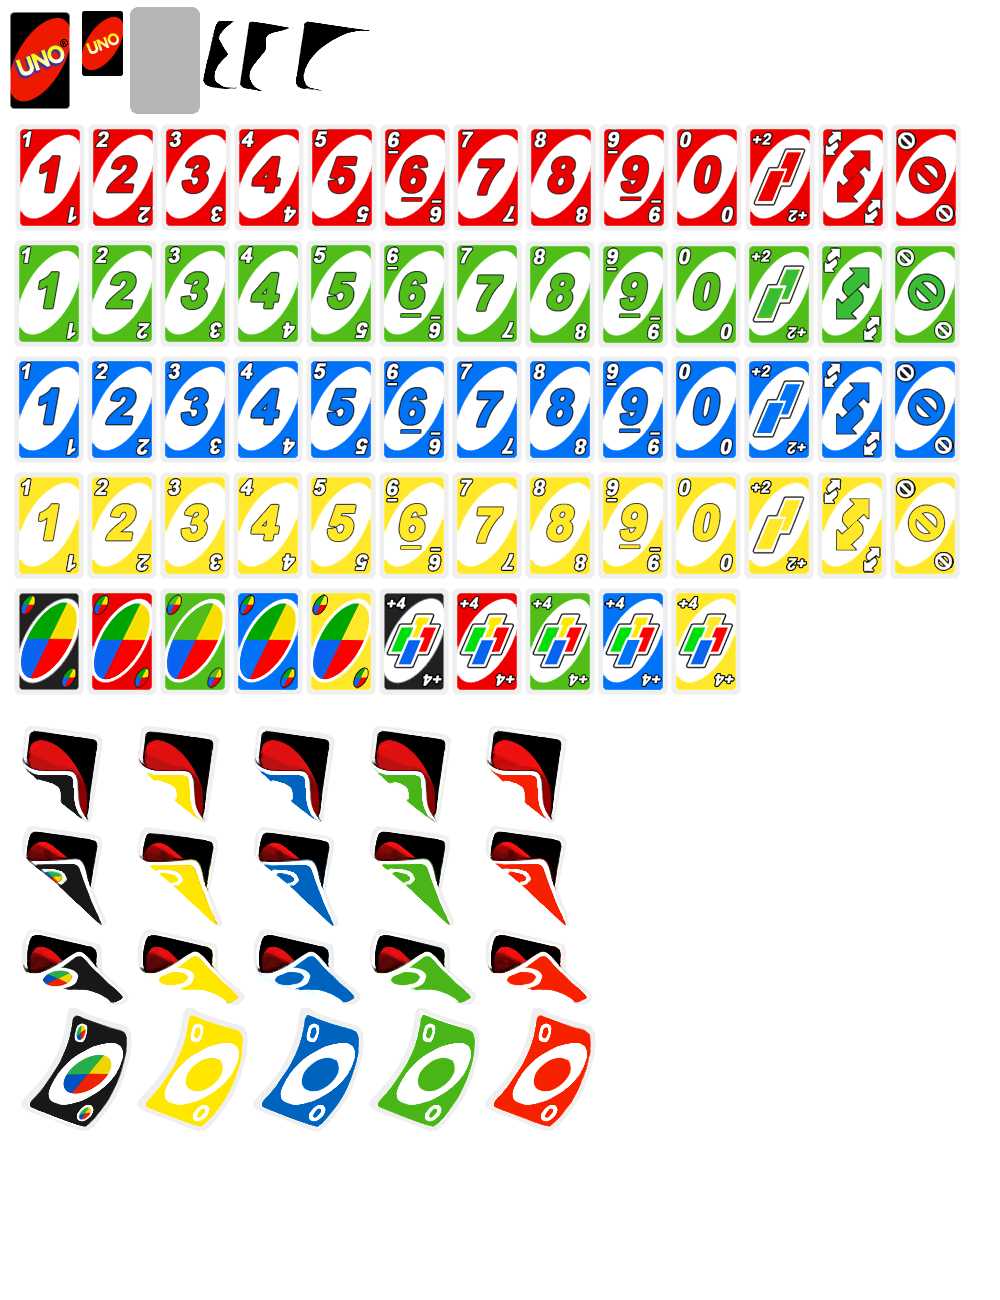
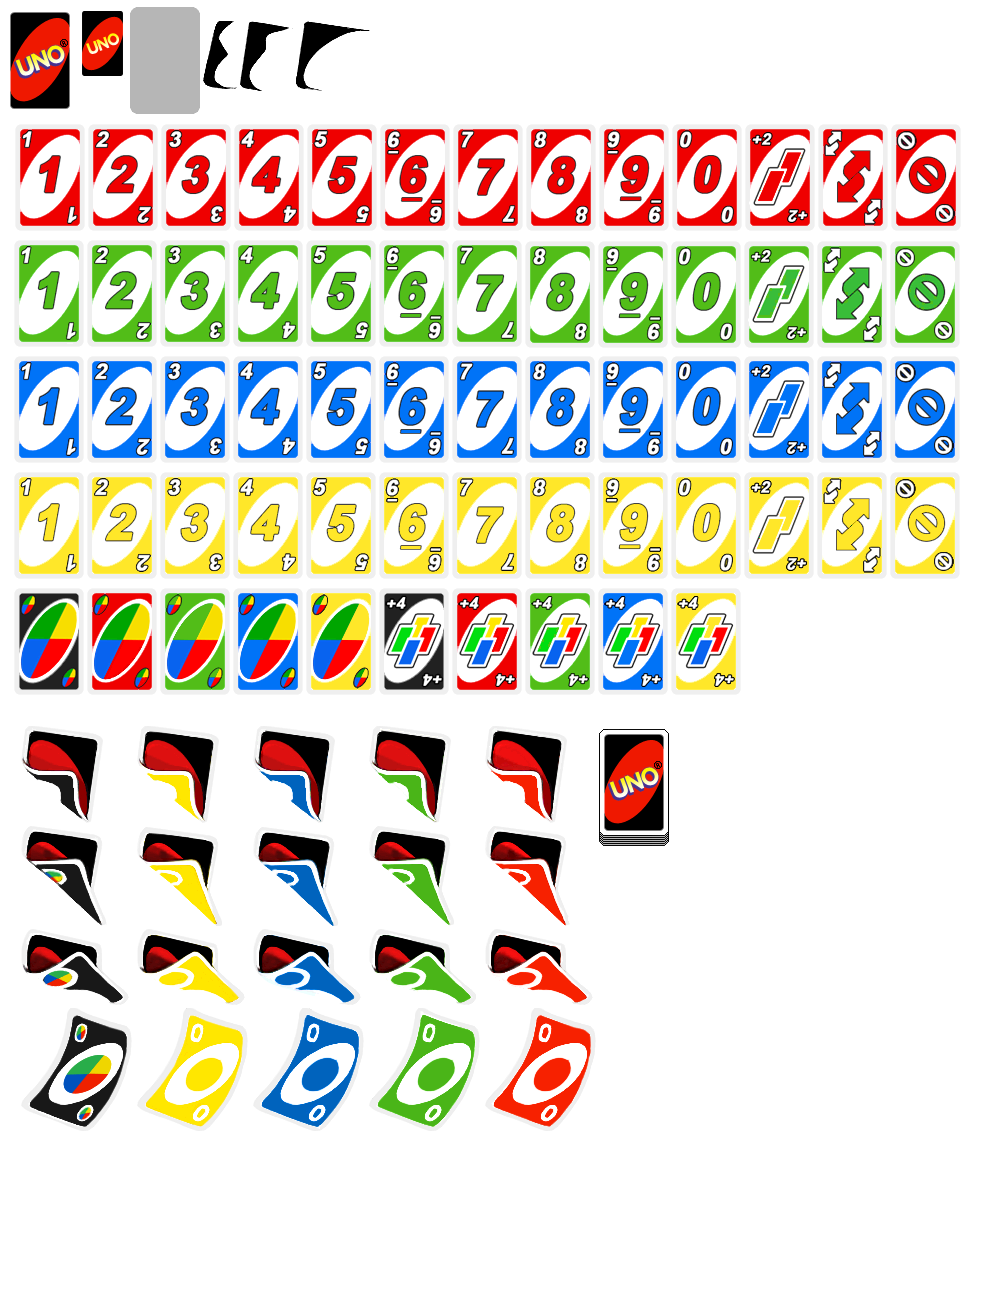
Update

Changed region(s): [[0.589, 0.5538, 0.682, 0.6769]]

diff --git a/UNO/PlayerObject.h b/UNO/PlayerObject.h
@@ -11,25 +11,31 @@ public:
 	typedef std::vector<CObject2D*> player_t;
 	typedef std::vector<CText*> playerName_t;
 	typedef std::vector<CButton*> card_t;
+	typedef std::vector<D2D1_RECT_F> Turn_t;
 
 private:
 	player_t m_player;
 	player_t m_playerImage;
+	player_t m_boss;
+	player_t m_turn;
 	playerName_t m_pName;
 
 	card_t* m_playersCard;
 
+	// 134 44
+
 	CButton* m_pCurrentCard;
 
-	D2D1_RECT_F m_cruuentCardRect;
+	D2D1_RECT_F m_currentCardRect;
 
 	int m_fontSize;
 
 	bool m_bCard;
+	bool m_bStart;
 public:
 	CPlayerObject();
 	~CPlayerObject();
 
-	void Update(CRoom::stUSER* _userinfo, POINT _mouse, int _key);
+	void Update(CRoom::stUSER* _userinfo, CRoom::stROOM* _roominfo, POINT _mouse, int _key);
 	void Render(ID2D1HwndRenderTarget* _pRT, CRoom::stUSER* _userinfo, int _myNum);
 };

diff --git a/UNO/GameWnd.cpp b/UNO/GameWnd.cpp
@@ -71,7 +71,9 @@ bool CGameWnd::LoadBitmapFile()
 											L"PNG\\Create.png",
 											L"PNG\\RoomInPlayer.png",
 											L"PNG\\card.png",
-											L"PNG\\readyButton.png"};
+											L"PNG\\readyButton.png",
+											L"PNG\\boss.png",
+											L"PNG\\MY TURN.png"};
 
 	char resourceFileName[][_MAX_PATH] = {	"Resource\\LOBBY1.spr",
 											"Resource\\LOGIN_background1.spr",
@@ -100,7 +102,10 @@ bool CGameWnd::LoadBitmapFile()
 											"Resource\\UnoCard110.spr",
 											"Resource\\ready2.spr",
 											"Resource\\start2.spr",
-											"Resource\\SecretCard1.spr"};
+											"Resource\\SecretCard1.spr",
+											"Resource\\centerCard1.spr",
+											"Resource\\boss1.spr",
+											"Resource\\MyTurn1.spr"};
 
 	FILE* pFile;
 	CSprite* tmpSprite;

diff --git a/UNO/LobbyScene.cpp b/UNO/LobbyScene.cpp
@@ -103,7 +103,7 @@ void CLobbyScene::Update()
 	POINT mouse = pInput->GetMousePosition();
 	int key = pInput->GetKey();
 
-	if (pTimer->GetTime() >= 1)
+	if (pTimer->GetTime() >= 1.0f)
 	{
 		char buffer[] = "List";
 		CClient::GetInstance()->Send(buffer, CS_PT_USERLIST);

diff --git a/UNO/ResourceManager.h b/UNO/ResourceManager.h
@@ -33,6 +33,8 @@ public:
 		ROOM_IN_PLAYER,
 		CARD,
 		READY,
+		BOSS,
+		TURN,
 		MAX
 	};
 
@@ -66,6 +68,9 @@ public:
 		READY_BUTTON,
 		START_BUTTON,
 		SECRET_CARD,
+		CENTER_CARD,
+		BOSS_ICON,
+		MYTURN,
 		ICON_MAX
 	};
 

diff --git a/UNO/GameRoomScene.h b/UNO/GameRoomScene.h
@@ -25,6 +25,7 @@ private:
 	CObject2D* m_pBackGround;
 	CObject2D* m_pChatBackGround;
 	CObject2D* m_pCurrentCard;
+	CButton* m_pCenterCard;
 
 	CPlayerObject* m_pPlayerObject;
 

diff --git a/UNO/PacketType.h b/UNO/PacketType.h
@@ -13,5 +13,6 @@ enum ePacketType
 	CS_PT_READY,
 	CS_PT_START,
 	CS_PT_DRAWCARD,
+	CS_PT_TAKECARD,
 	CS_PT_MAX
 };
